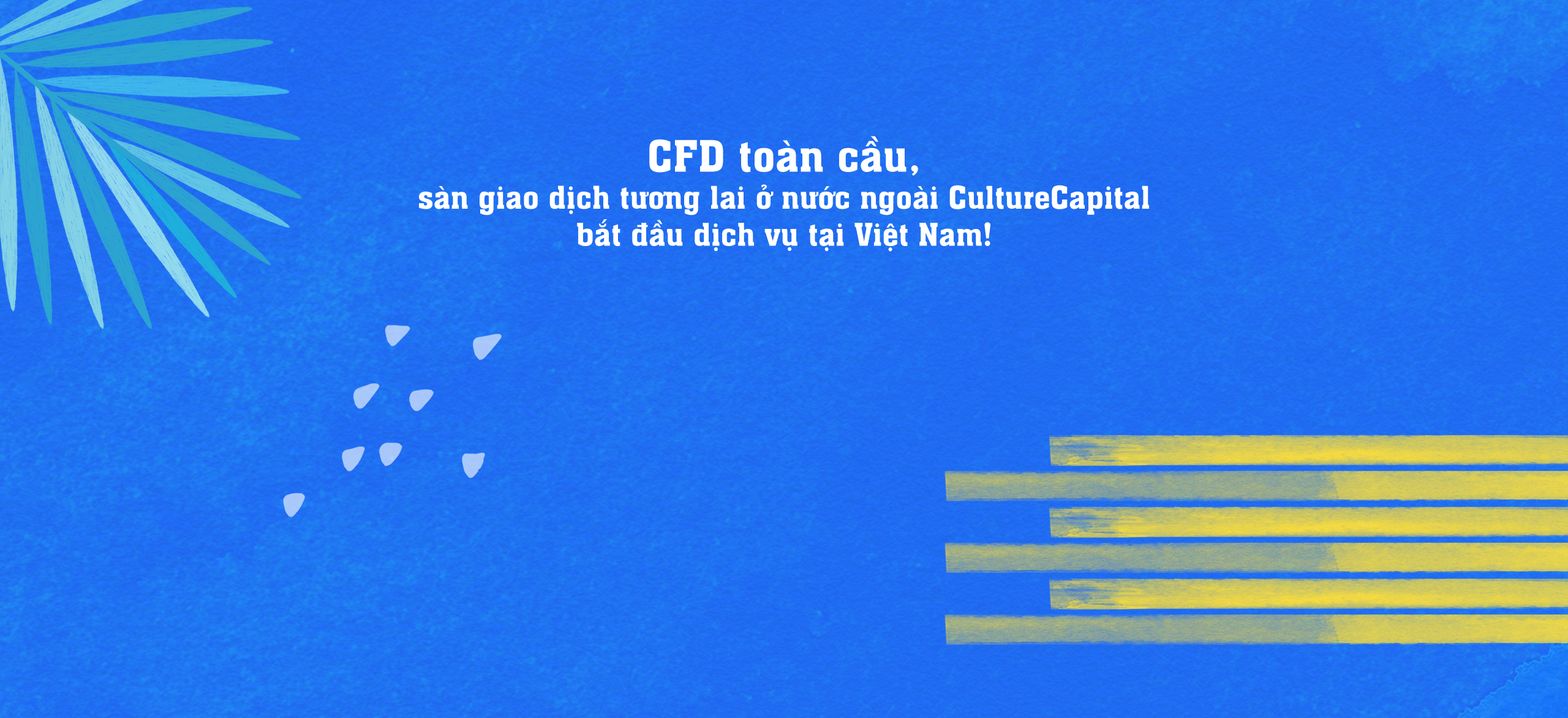
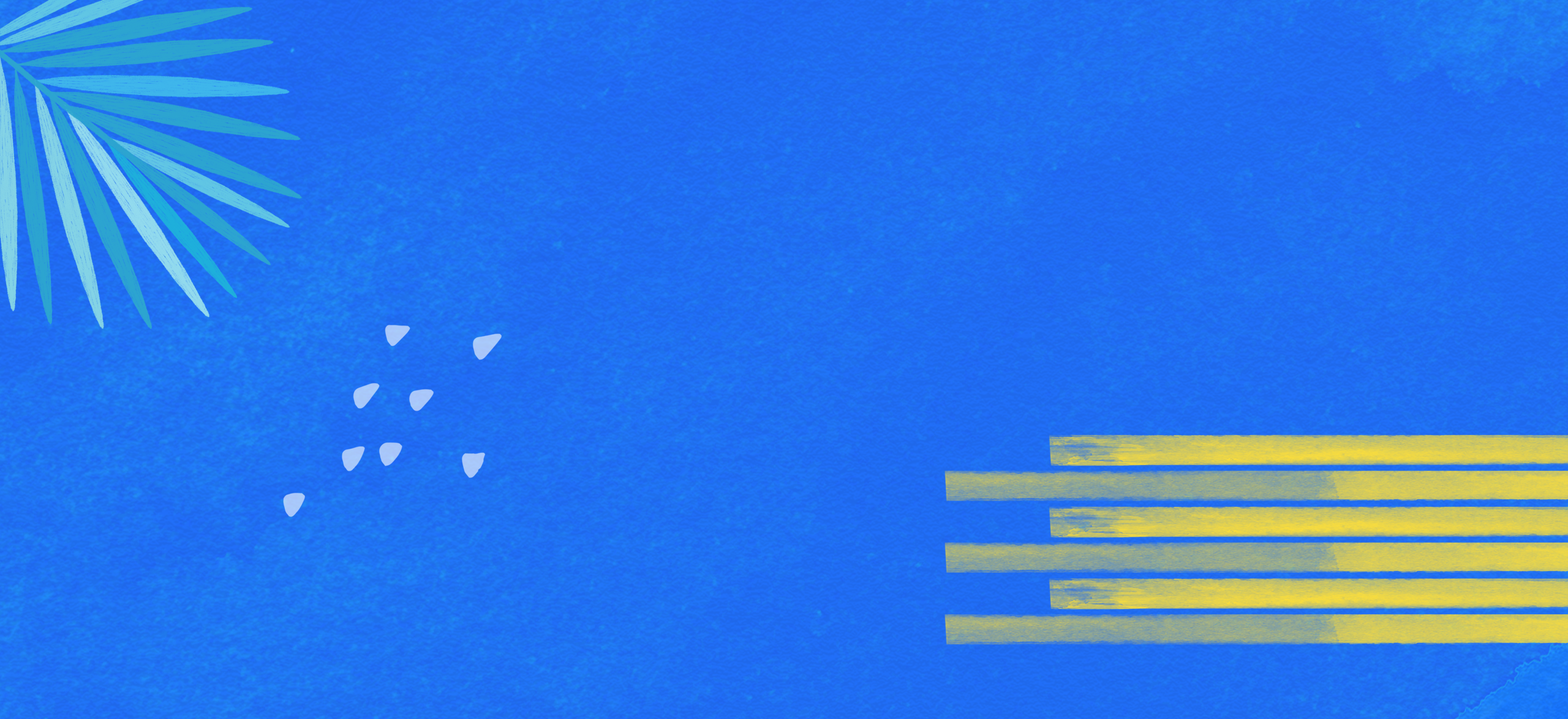
화면 테스트

diff --git a/ctexchange-vnm.com/index.html b/ctexchange-vnm.com/index.html
@@ -12,32 +12,78 @@
 
     <div class="wrap">
 
-        <section>
-<img src="" alt="">
-          <p>
-            Culture Capital LLC là công ty được thành lập dựa trên kinh nghiệm phong phú và công nghệ tiên tiến của các chuyên gia tài chính và
-CNTT đẳng cấp thế giới. Mục tiêu kinh doanh của chúng tôi là cung cấp các dịch vụ đầu tư tài chính tốt nhất cho khách hàng.
-Chúng tôi giúp khách hàng tiếp tục phát triển cùng chúng tôi và đóng góp vào sự phát triển của thị trường tài chính trên toàn thế giới.
-Culture Capital LLC cung cấp nền tảng giao dịch và hệ thống khách hàng ổn định và thân thiện với người dùng.
-Chúng tôi hứa sẽ cung cấp môi trường giao dịch tối ưu và cung cấp mọi hỗ trợ có thể để thuận tiện cho người dùng.
-Chúng tôi đặt sự an toàn của tiền của khách hàng là ưu tiên hàng đầu.
-J.P. Làm việc với các nhà cung cấp thanh khoản (LP) đáng tin cậy bao gồm Morgan Chase,
-Goldman Sachs và Morgan Stanley Chúng tôi quản lý đơn đặt hàng và tiền của bạn một cách an toàn.
-Tầm nhìn của chúng tôi là thiết lập vị trí dẫn đầu trên thị trường CFD toàn cầu thông qua các dịch vụ tài chính tốt nhất,
-Mục tiêu của chúng tôi là trở thành đối tác tin cậy cùng phát triển cùng khách hàng.
-Là đối tác toàn cầu của bạn trong thị trường CFD, chúng tôi sẽ đồng hành cùng bạn trên hành trình tài chính thành công.
-          </p>  
-        </section>
-        <section></section>
-        <section></section>
-        <section></section>
-        <section></section>
-        <section></section>
-        <section></section>
-        <section></section>
-        <section></section>
+        <div class="float_btn"></div>
 
+        <!-- <section class="cont1">
+            <h4 class="hide">CFD</h4>
+<img src="./img/section1.png" alt="section_img">
+          <div>
+          <p>  Culture Capital LLC là công ty được thành lập dựa trên kinh nghiệm phong phú và công nghệ tiên tiến của các chuyên gia tài chính và</p>
+<p>CNTT đẳng cấp thế giới. Mục tiêu kinh doanh của chúng tôi là cung cấp các dịch vụ đầu tư tài chính tốt nhất cho khách hàng.</p>
+<p>Chúng tôi giúp khách hàng tiếp tục phát triển cùng chúng tôi và đóng góp vào sự phát triển của thị trường tài chính trên toàn thế giới.</p>
+<p>Culture Capital LLC cung cấp nền tảng giao dịch và hệ thống khách hàng ổn định và thân thiện với người dùng.</p>
+<p>Chúng tôi hứa sẽ cung cấp môi trường giao dịch tối ưu và cung cấp mọi hỗ trợ có thể để thuận tiện cho người dùng.</p>
+<p>Chúng tôi đặt sự an toàn của tiền của khách hàng là ưu tiên hàng đầu.</p>
+<p>J.P. Làm việc với các nhà cung cấp thanh khoản (LP) đáng tin cậy bao gồm Morgan Chase,</p>
+<p>Goldman Sachs và Morgan Stanley Chúng tôi quản lý đơn đặt hàng và tiền của bạn một cách an toàn.</p>
+<p>Tầm nhìn của chúng tôi là thiết lập vị trí dẫn đầu trên thị trường CFD toàn cầu thông qua các dịch vụ tài chính tốt nhất,</p>
+<p>Mục tiêu của chúng tôi là trở thành đối tác tin cậy cùng phát triển cùng khách hàng.</p>
+<p>Là đối tác toàn cầu của bạn trong thị trường CFD, chúng tôi sẽ đồng hành cùng bạn trên hành trình tài chính thành công.</p>
+          </div>  
+        </section>
+        <section class="cont2">
+           <h4 class="hide">Khuyến mãi khai trương dịch vụ
+            CultureCapital Vietnam</h4>
+        </section> -->
+        <!-- <section>
+           img content 
+        </section> -->
+        <section class="cont4">
+            <h4 class="hide">the most mobile-friendly platform Culture Capital MTR</h4>
+        </section>
+        <section class="cont5">
+            <ul>
+                <li>Bảng xếp hạng cao cấp dành cho tất cả các Trader</li>
+                <li>Lịch kinh tế và bản tin thời sự</li>
+                <li>Giải pháp thanh toán để gửi tiền ngay lập tức.</li>
+                <li>Chức năng thông báo MTR</li>
+            </ul>
+        </section>
+        <section class="cont6">
+            <h4 class="hide">Trading view</h4>
+        </section>
+        <section class="cont7">
+            <ul>
+                <li class="point">Mình giới thiệu cho những bạn này 'giao dịch nước biển'!</li>
+                <li>Người tìm kiếm nơi đầu tư mà các nhà đầu tư cá nhân có thể giành chiến thắng</li>
+                <li>r Những người không nhận được thu nhập ngoài thu nhập lao động trong thời gian qua</li>
+                <li>Ai muốn kiếm được lợi nhuận đều đặn và trở thành nhà đầu tư thành công</li>
+                <li>Những người thiếu thời gian đầu tư vì công việc cá nhân như nhân viên văn phòng, nội trợ, doanh nhân.</li>
+                <li>Ai muốn kiếm tiền tiêu vặt bằng cách đầu tư nhỏ</li>
+            </ul>
+        </section>
+        <section class="cont8">
+            <h4></h4>
+
+            <form action="">
+                <input type="text" placeholder="*tiếng tăm">
+                <input type="number" placeholder="*điện thoại">
+<div>
+    <input type="checkbox">
+    <label for="">Tôi đồng ý với thỏa thuận thu thập và sử dụng thông tin cá nhân. </label>
+    <a href="">[ví dụ]</a>
+</div>
+
+<button type="submit">viet</button>
+            </form>
+
+            <strong>Chú ý mạo danh</strong>
+        </section>
+        <footer>
+<p>상호명 : 더불리쉬 유한회사 | 대표자: 박은철</p>
+<p>사업자번호 : 340-81-02583</p>
+<p>주소 : 서울특별시 강서구 방화대로33길 14-4, 2층(방화동)</p>
+        </footer>
     </div>
-    
 </body>
 </html>

diff --git a/ctexchange-vnm.com/style.css b/ctexchange-vnm.com/style.css
@@ -4,4 +4,137 @@
     font-family: "Noto Sans Tai Viet", sans-serif;
     font-weight: 400;
     font-style: normal;
+    background-size: contain;
+    background-repeat: no-repeat;
+}
+
+
+.wrap{
+    width: 100%;
+    height: 100%;
+}
+
+.hide{
+    text-indent: -9999px;
+}
+
+
+.float_btn{
+    position: fixed;
+    bottom: 40px;
+    right: 40px;
+    width: 150px;
+    height: 150px;
+    background-image: url("./img/float.png");
+}
+
+
+.cont1{
+    display: flex;
+    flex-direction: column;
+    align-items: center;
+    background-image: url("./img/section1_bg.png");
+    background-position: top;
+    background-size: 1920px 600px;
+    height: auto;
+    padding: 150px 0 0;
+}
+
+.cont1 h4{
+    width: 520px;
+    height: 120px;
+    background-image: url("./img/section1_title.png");
+    margin-bottom: 40px;
+}
+
+.cont1 img{
+    display: block;
+    width: 700px;
+    height: auto;
+    margin: 0 auto;
+    aspect-ratio: 1512/801;
+    margin-bottom: 32px;
+}
+
+.cont1 div{
+    max-width: 900px;
+    margin: 0 auto;
+}
+
+.cont1 div p{
+    color: #ccc;
+    font-size: 13px;
+    text-align: center;
+    line-height: 18px;
+}
+
+/* cont2 */
+
+
+.cont2{
+    width: 100%;
+    height: 600px;
+    background-image: url("./img/section2.png");
+    background-size: 450px;
+    background-position: center;
+}
+
+/* cont3 */
+
+/* cont4 */
+
+.cont4{
+    width: 100%;
+    height: 420px;
+    background-image: url("./img/section4.png");
+    background-size: 450px;
+    background-position: center;
+}
+
+/* cont5 */
+
+.cont5{
+    width: 100%;
+    height:auto;
+    height: 500px;
+}
+
+.cont5 ul{
+    width: 500px;
+    display: flex;
+    gap:10px;
+    flex-wrap: wrap;
+    align-items: center;
+    justify-content: center;
+    margin: 0 auto;
+}
+.cont5 ul li{
+    width: calc(50% - 20px);
+    height: 200px;
+    text-indent: -9999px;
+    background-position: bottom center;
+}
+
+.cont5 ul li:nth-child(1){
+    background-image: url("./img/section5-1.png");
+}
+.cont5 ul li:nth-child(2){
+    background-image: url("./img/section5-2.png");
+}
+.cont5 ul li:nth-child(3){
+    background-image: url("./img/section5-3.png");
+}
+.cont5 ul li:nth-child(4){
+    background-image: url("./img/section5-4.png");
+}
+
+
+/* cont6 */
+
+.cont6{
+    width: 100%;
+    height: 700px;
+    background-image: url("./img/section6_bg.png");
+    background-size: cover;
+    background-position: center;
 }
